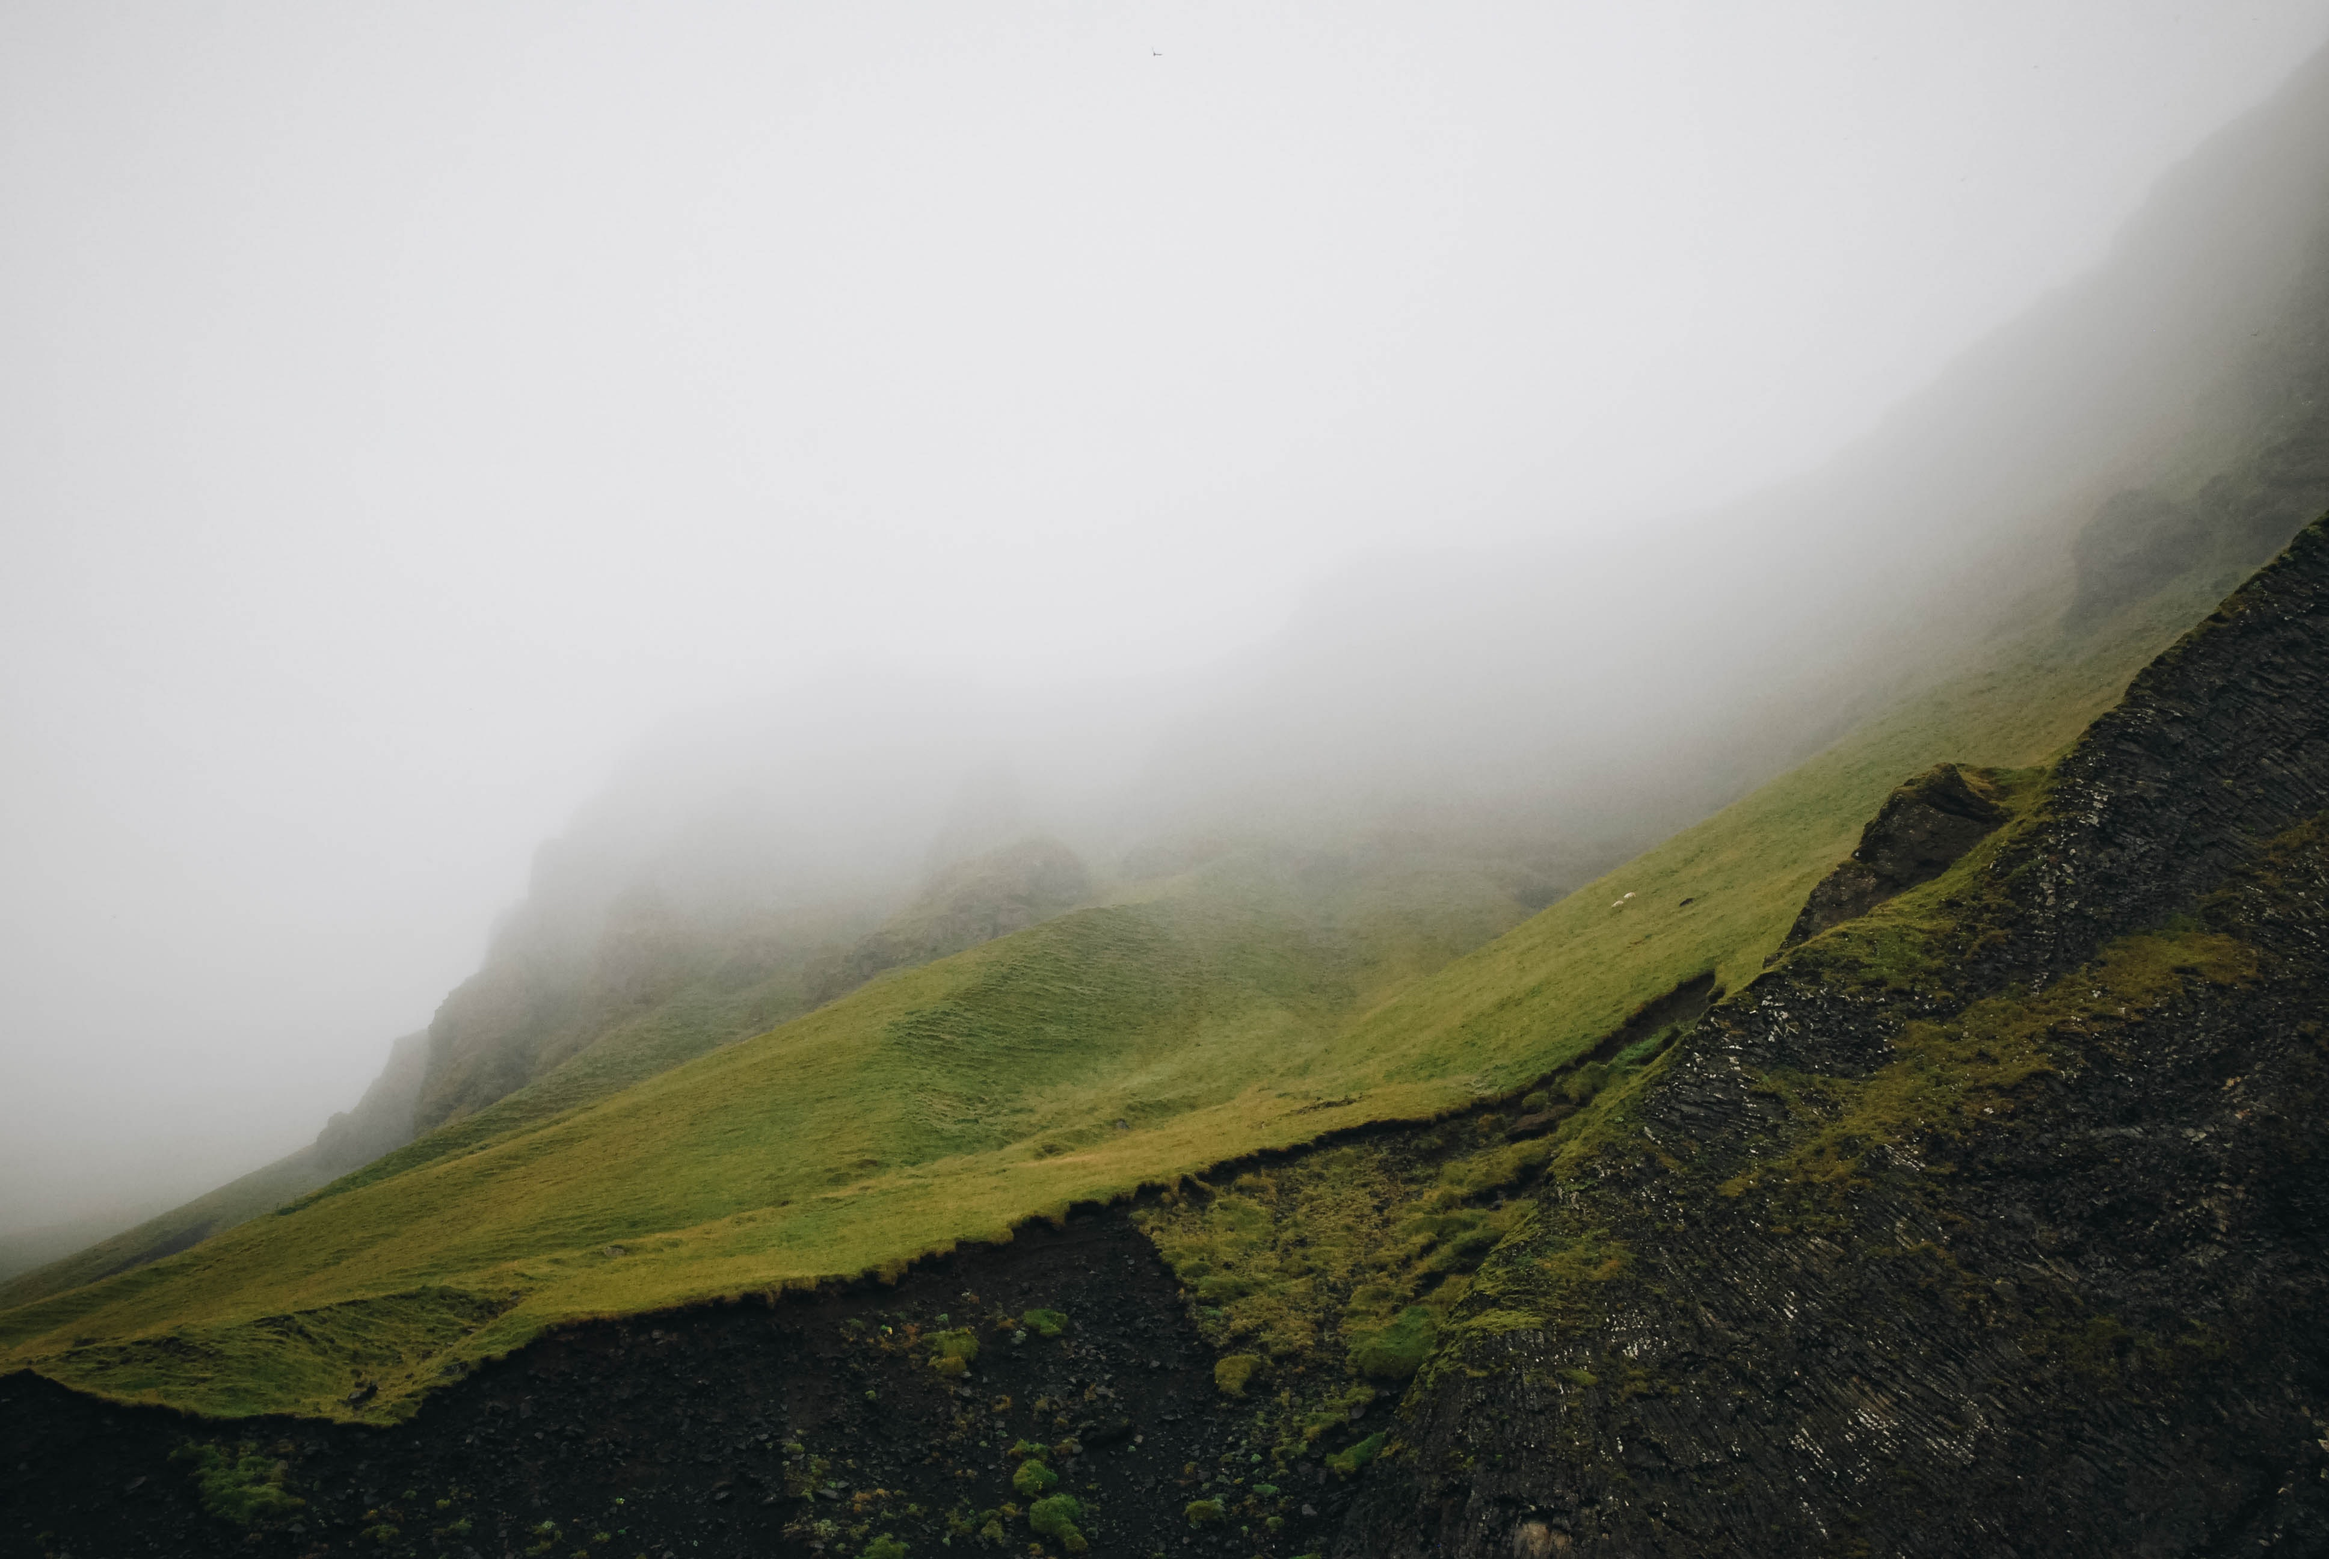
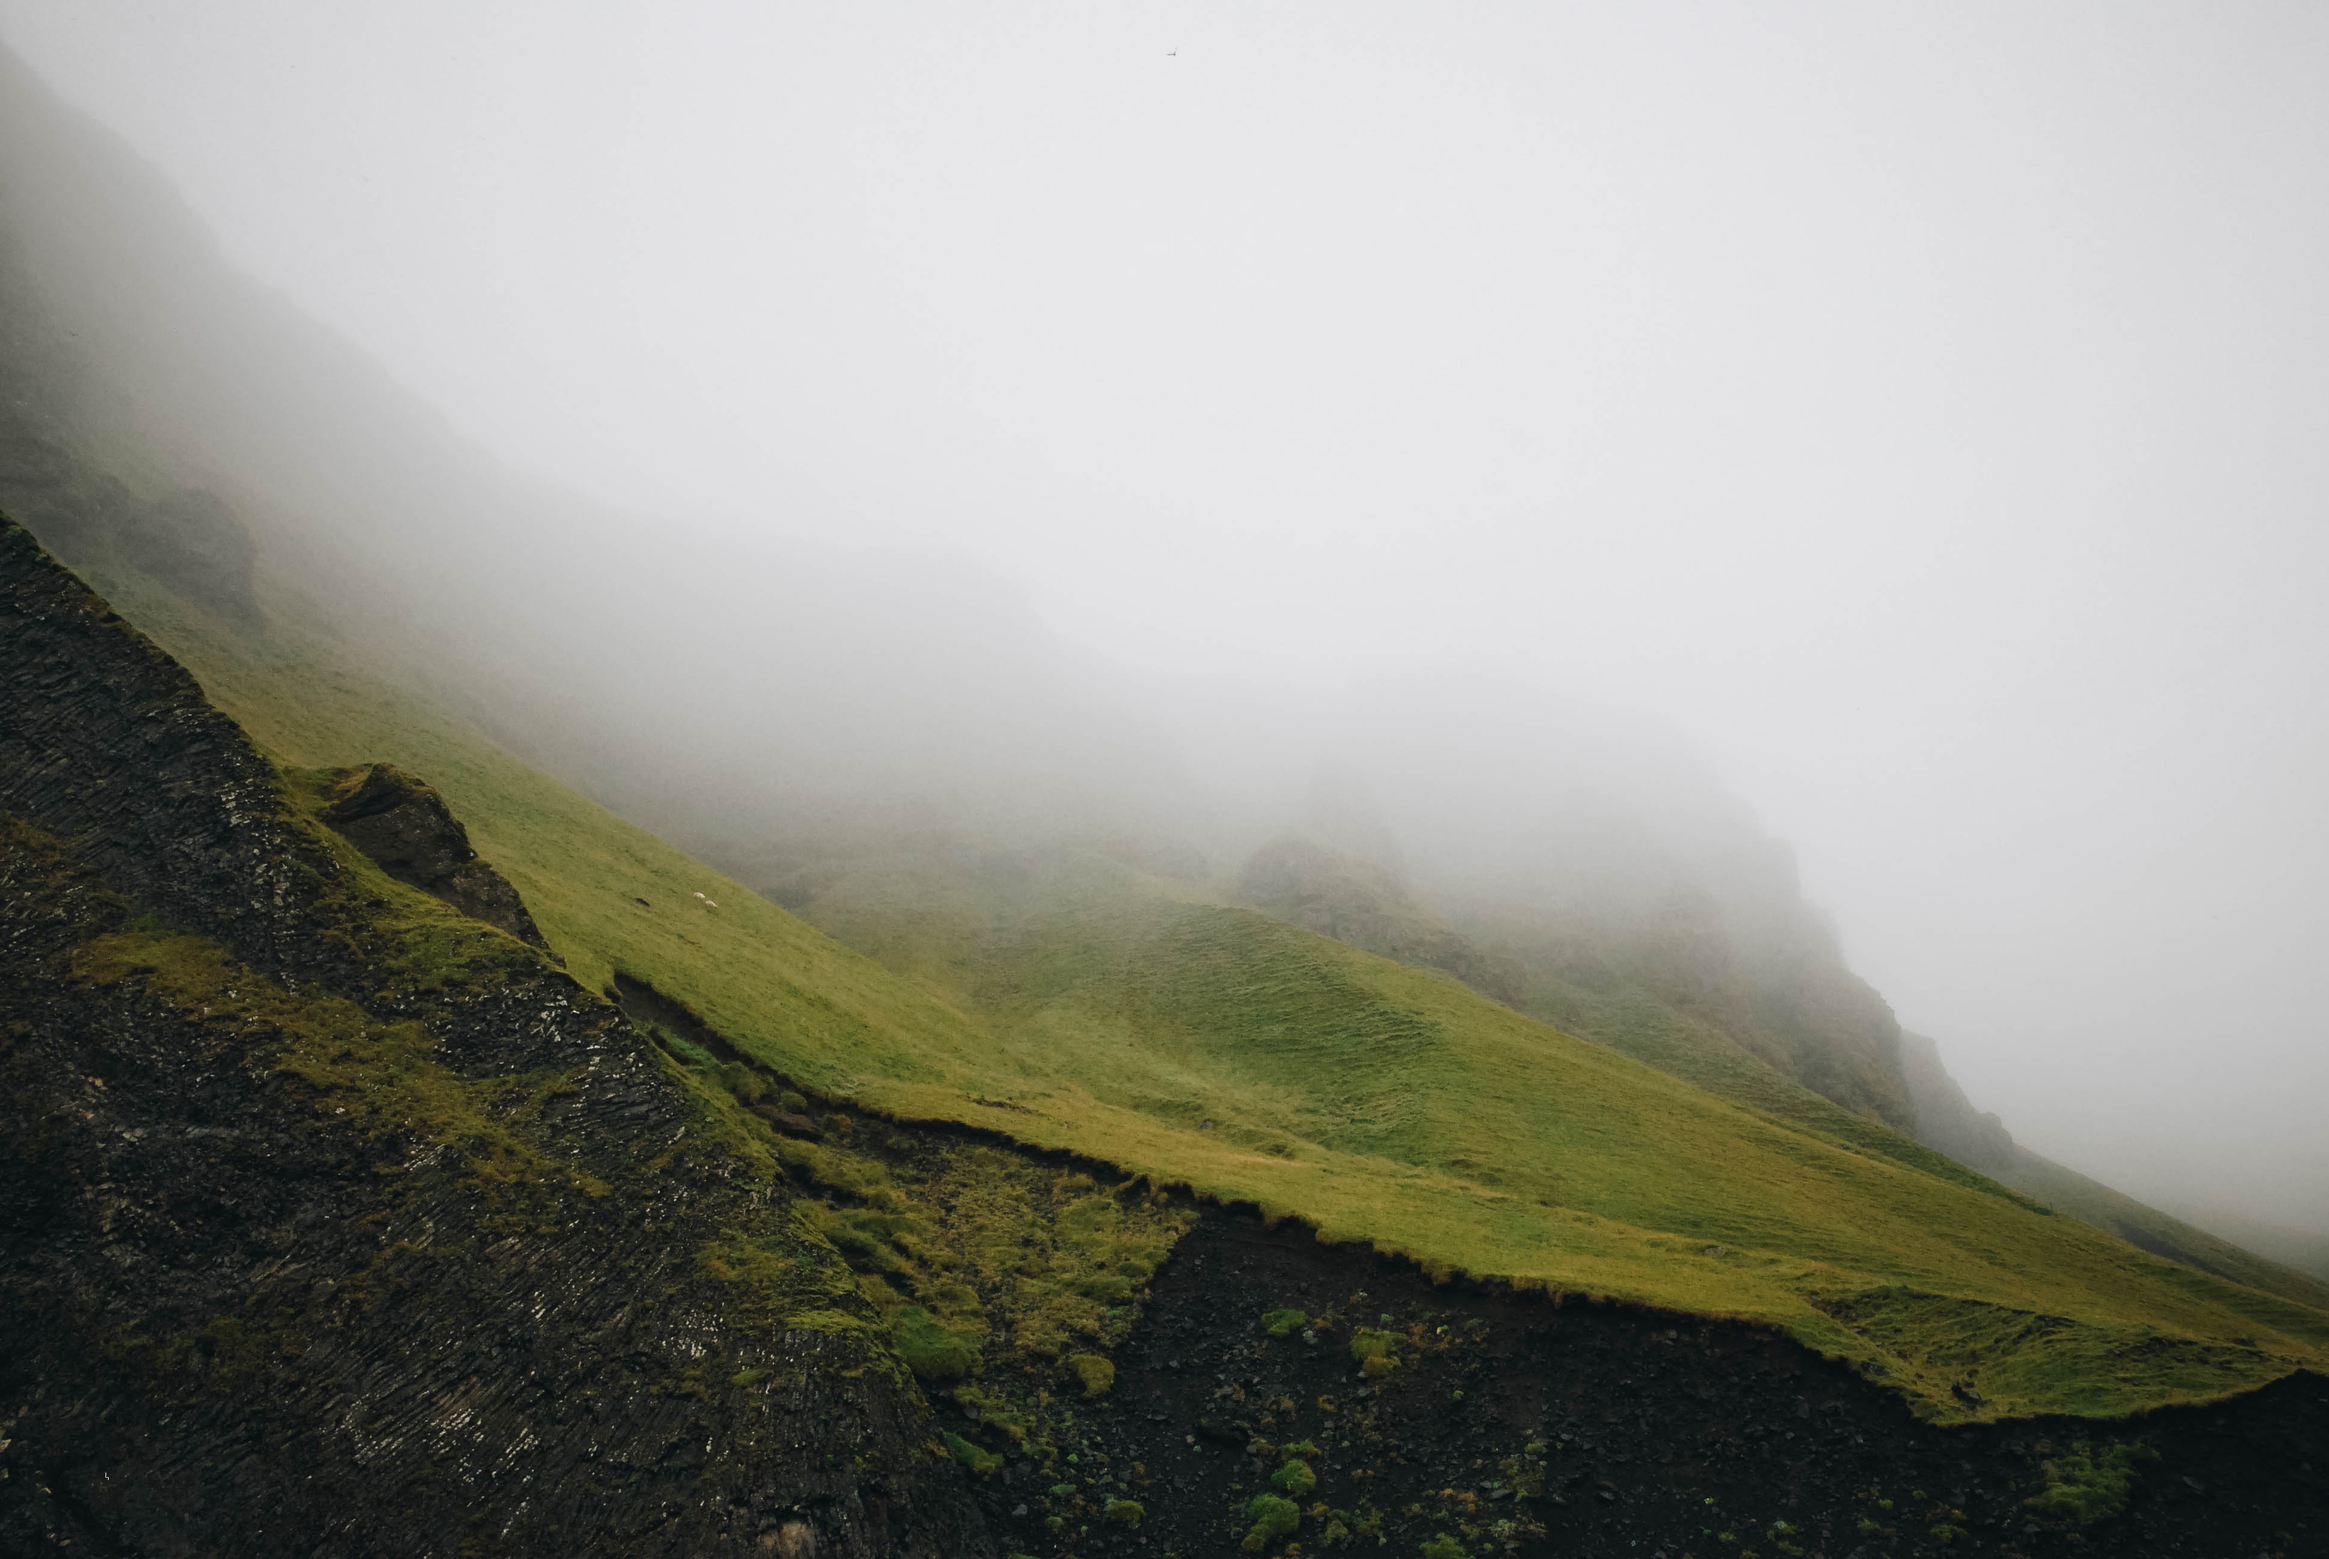
20211217

diff --git a/src/App.vue b/src/App.vue
@@ -1,8 +1,8 @@
 <template>
   <main class="relative">
     <img
-      class="object-cover h-full w-full absolute filter grayscale"
-      src="./images/fog2.jpg"
+      class="object-cover h-full w-full absolute filter"
+      src="./images/drizzle.jpg"
       alt="wallpaper"
     />
     <div class="absolute top-0 h-full w-full flex justify-between">
@@ -16,7 +16,13 @@
           :icon="icon"
         />
       </div>
-      <Details />
+      <Details
+        :sunrise="sunrise"
+        :sunset="sunset"
+        :humidity="humidity"
+        :pressure="pressure"
+        :wind="wind"
+      />
     </div>
   </main>
 </template>
@@ -49,10 +55,17 @@ export default {
         year: "numeric",
         month: "short",
         day: "numeric",
-        hour: "numeric",
-        minute: "numeric",
+      },
+      timestamp: {
+        hour: "2-digit",
+        minute: "2-digit",
       },
       icon: "",
+      sunrise: "",
+      sunset: "",
+      humidity: "",
+      pressure: "",
+      wind: "",
     };
   },
   created() {
@@ -80,6 +93,16 @@ export default {
             "http://openweathermap.org/img/w/" +
             res.data.weather[0].icon +
             ".png";
+          this.sunrise = new Date(
+            res.data.sys.sunrise * 1000
+          ).toLocaleTimeString("en-US", this.timestamp);
+          this.sunset = new Date(res.data.sys.sunset * 1000).toLocaleTimeString(
+            "en-US",
+            this.timestamp
+          );
+          this.humidity = res.data.main.humidity;
+          this.pressure = res.data.main.pressure;
+          this.wind = res.data.wind.speed;
           console.log(res.data);
         });
     },

diff --git a/src/components/Details.vue b/src/components/Details.vue
@@ -20,11 +20,11 @@
       <div class="flex items-center justify-between">
         <Card class="flex items-center">
           <h1 class="pr-2">SUNRISE</h1>
-          <span>5:44 AM</span>
+          <span>{{ sunrise }}</span>
         </Card>
         <Card class="flex items-center">
           <h1 class="pr-2">SUNSET</h1>
-          <span>8:57 PM</span>
+          <span>{{ sunset }}</span>
         </Card>
       </div>
 
@@ -33,17 +33,17 @@
           <div>
             <h1>Humidity</h1>
             <i class="fal fa-humidity text-2xl py-2"></i>
-            <h1>62 %</h1>
+            <h1>{{ humidity }} %</h1>
           </div>
           <div>
             <h1>Pressure</h1>
             <i class="fal fa-cloud-download text-2xl py-2"></i>
-            <h1>1023 hPa</h1>
+            <h1>{{ pressure }} hPa</h1>
           </div>
           <div>
             <h1>Wind</h1>
             <i class="fal fa-wind text-2xl py-2"></i>
-            <h1>10 km/h</h1>
+            <h1>{{ wind }} km/h</h1>
           </div>
         </Card>
       </div>
@@ -106,6 +106,7 @@
 <script>
 import Card from "./Card.vue";
 export default {
+  props: ["sunrise", "sunset", "humidity", "pressure", "wind"],
   components: {
     Card,
   },
@@ -118,10 +119,6 @@ export default {
   width: 500px;
 }
 .blur {
-  background: linear-gradient(
-    to right top,
-    rgba(0, 0, 0, 0.4),
-    rgba(0, 0, 0, 0.2)
-  );
+  background: rgba(0, 0, 0, 0.5);
 }
 </style>

diff --git a/src/components/Summary.vue b/src/components/Summary.vue
@@ -1,25 +1,25 @@
 <template>
-  <div class="pl-20 pr-10 mb-10">
+  <div class="blur pl-20 pr-10 pb-10 pt-6">
     <!--header-->
     <div class="header flex items-end justify-between">
       <div class="flex items-end">
         <h1 class="text-gray-200 text-9xl">{{ temp }}°</h1>
         <h3 class="text-gray-200 text-3xl font-bold pb-2">{{ description }}</h3>
       </div>
-      <div class="flex flex-col items-end pb-3">
-        <div class="flex pb-6">
+      <div class="flex flex-col items-end">
+        <div class="flex">
           <button class="text-gray-300">Celsius</button>
           <span class="text-gray-300 px-1">|</span>
           <button class="text-gray-300">Fahrenheit</button>
         </div>
-        <img :src="icon" alt="icon" class="" />
+        <img :src="icon" alt="icon" class="w-20" />
       </div>
     </div>
     <!--footer-->
     <div class="w-full border-t-2 border-gray-400 my-6"></div>
     <div class="flex items-center justify-between pt-6">
       <div class="flex text-gray-300">
-        <h4>{{ city }}</h4>
+        <h4 class="text-xl">{{ city }}</h4>
       </div>
       <div class="flex text-gray-300">
         <h1>{{ date }}</h1>
@@ -35,7 +35,7 @@ export default {
 </script>
 
 <style scoped>
-img {
-  filter: grayscale(100%);
+.blur {
+  background: rgba(0, 0, 0, 0.4);
 }
 </style>

diff --git a/src/components/Card.vue b/src/components/Card.vue
@@ -6,6 +6,6 @@
 
 <style scoped>
 .card {
-  background: rgba(0, 0, 0, 0.1);
+  background: rgba(0, 0, 0, 0.4);
 }
 </style>
